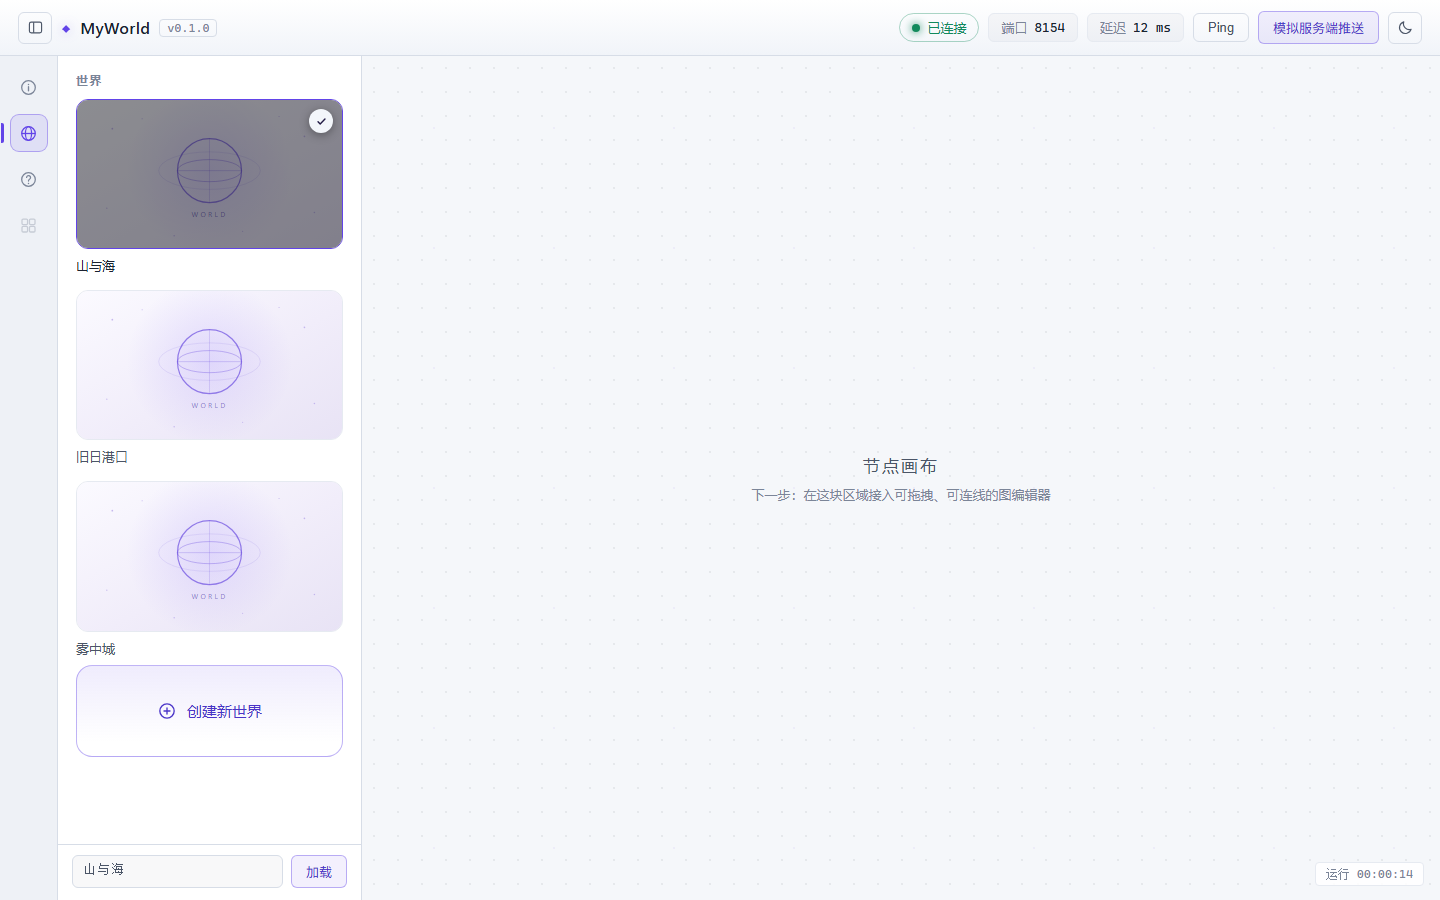
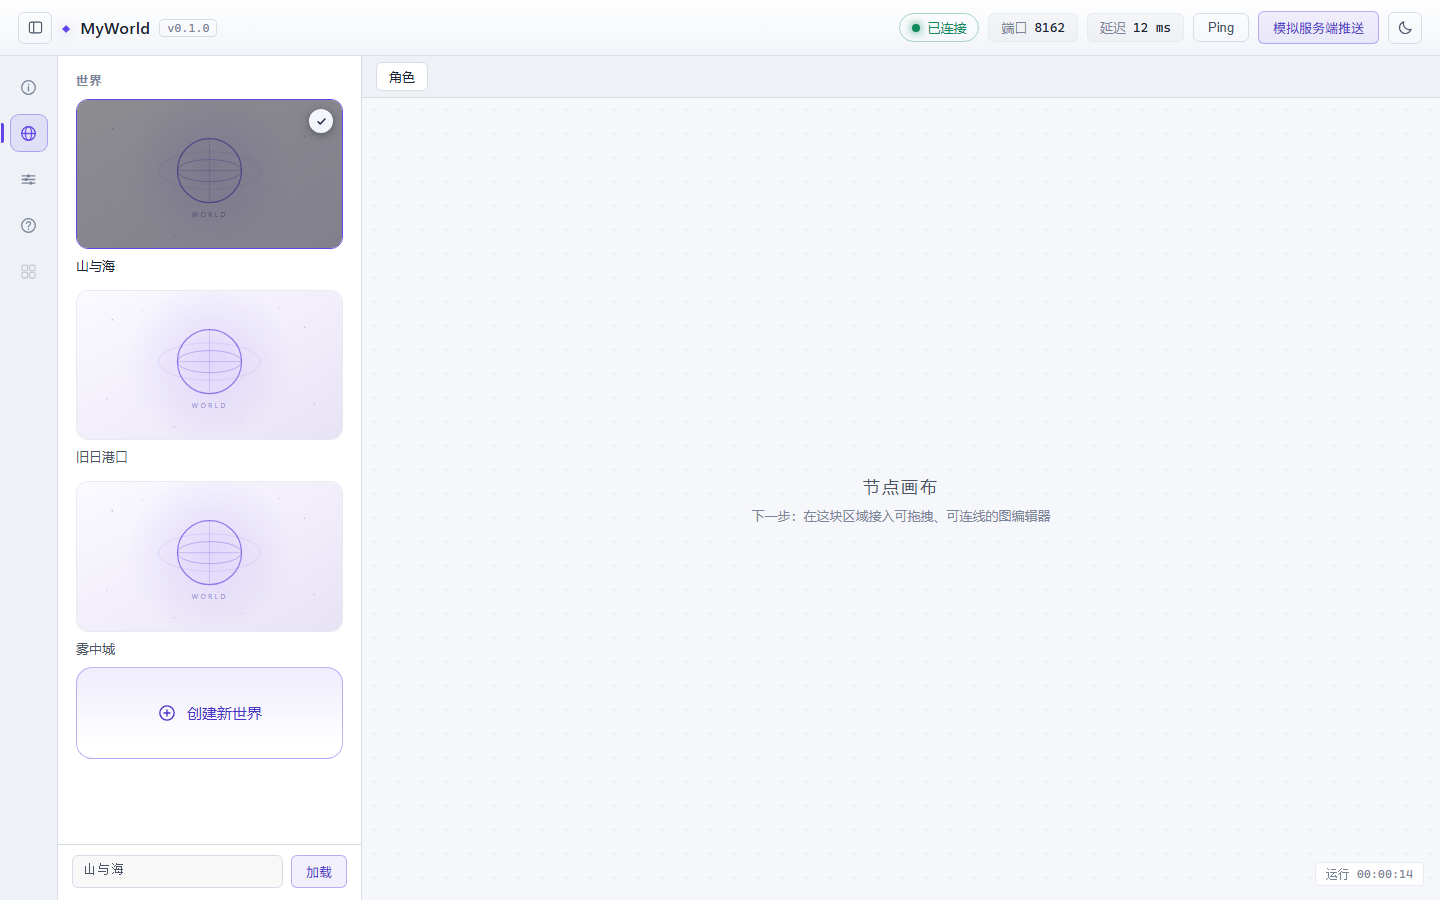
feat: 画布区加二级顶栏（角色标签）
- canvas-wrap 改成纵向 flex：上方 workbar（42px，分栏标签）+ 下方 canvas-body
- 顶栏目前只有「角色」一个 tab（tablist/tab + aria-selected 已就位，便于后续加栏）
- 画布提示、当前世界视图、运行时长徽标都移进 canvas-body，不再被顶栏覆盖
- 截图与 README 同步更新

diff --git a/web/index.html b/web/index.html
@@ -185,21 +185,28 @@
     </div>
 
     <section class="canvas-wrap">
-      <div class="canvas-grid"></div>
-      <div class="canvas-hint" id="canvasHint">
-        <strong>节点画布</strong>
-        <span>下一步：在这块区域接入可拖拽、可连线的图编辑器</span>
+      <!-- 二级顶栏：画布区自己的分栏标签 -->
+      <div class="workbar" role="tablist" aria-label="画布分栏">
+        <button class="worktab is-active" type="button" role="tab" aria-selected="true" data-tab="characters">角色</button>
       </div>
 
-      <div class="canvas-world" id="canvasWorld" hidden>
-        <span class="canvas-world-kicker">当前世界</span>
-        <h3 id="canvasWorldName">—</h3>
-        <code id="canvasWorldPath">—</code>
-        <p class="hint">世界已加载。画布还没做，节点编辑器接进来之后这里就是它的工作区。</p>
-        <button class="btn ghost small" id="btnCloseWorld" type="button">关闭世界</button>
-      </div>
+      <div class="canvas-body" id="canvasBody">
+        <div class="canvas-grid"></div>
+        <div class="canvas-hint" id="canvasHint">
+          <strong>节点画布</strong>
+          <span>下一步：在这块区域接入可拖拽、可连线的图编辑器</span>
+        </div>
 
-      <div class="canvas-badge" id="uptime">运行 00:00:00</div>
+        <div class="canvas-world" id="canvasWorld" hidden>
+          <span class="canvas-world-kicker">当前世界</span>
+          <h3 id="canvasWorldName">—</h3>
+          <code id="canvasWorldPath">—</code>
+          <p class="hint">世界已加载。画布还没做，节点编辑器接进来之后这里就是它的工作区。</p>
+          <button class="btn ghost small" id="btnCloseWorld" type="button">关闭世界</button>
+        </div>
+
+        <div class="canvas-badge" id="uptime">运行 00:00:00</div>
+      </div>
     </section>
   </main>
 

diff --git a/web/css/style.css b/web/css/style.css
@@ -508,11 +508,55 @@ body {
 /* ---------- 画布占位 ---------- */
 .canvas-wrap {
   position: relative;
+  display: flex;
+  flex-direction: column;
   flex: 1 1 auto;
   min-width: 0;
   overflow: hidden;
   background: var(--bg);
   transition: background-color 0.18s ease;
+}
+
+/* 二级顶栏：画布区分栏标签 */
+.workbar {
+  display: flex;
+  align-items: center;
+  gap: 6px;
+  flex: 0 0 auto;
+  height: 42px;
+  padding: 0 14px;
+  border-bottom: 1px solid var(--border);
+  background: var(--bg-soft);
+}
+
+.worktab {
+  padding: 5px 12px;
+  border: 1px solid transparent;
+  border-radius: var(--radius-sm);
+  background: transparent;
+  color: var(--text-faint);
+  font-family: inherit;
+  font-size: var(--fs-small);
+  cursor: pointer;
+  transition: color 0.15s, background 0.15s, border-color 0.15s;
+}
+
+.worktab:hover {
+  color: var(--text);
+  background: var(--ghost-hover-bg);
+}
+
+.worktab.is-active {
+  border-color: var(--border);
+  background: var(--panel);
+  color: var(--text);
+}
+
+.canvas-body {
+  position: relative;
+  flex: 1 1 auto;
+  min-height: 0;
+  overflow: hidden;
 }
 
 .canvas-grid {

diff --git a/web/js/app.js b/web/js/app.js
@@ -715,6 +715,24 @@
     });
   }
 
+  // ---------------- 画布分栏（二级顶栏） ----------------
+
+  function initWorkTabs() {
+    const tabs = Array.from(document.querySelectorAll(".worktab"));
+    if (!tabs.length) return;
+
+    tabs.forEach((tab) => {
+      on(tab, "click", () => {
+        tabs.forEach((other) => {
+          const active = other === tab;
+          other.classList.toggle("is-active", active);
+          other.setAttribute("aria-selected", String(active));
+        });
+        debug("切换画布分栏", tab.dataset.tab);
+      });
+    });
+  }
+
   // ---------------- 连接状态 ----------------
 
   function setConnection(status, label) {
@@ -960,6 +978,7 @@
   initTheme();
   initRail();
   initSidebar();
+  initWorkTabs();
   on(el.btnCreateWorld, "click", () => openCreateDialog("world"));
   on(el.btnCreatePreset, "click", () => openCreateDialog("preset"));
   on(el.btnLoadWorld, "click", loadSelectedWorld);

diff --git a/README.md b/README.md
@@ -118,6 +118,8 @@ data/
 
 ![右键菜单](docs/screenshot-menu.png)
 
+画布区上方还有一条**二级顶栏**（属于画布自己的分栏标签），目前只有「角色」一个标签；具体分栏内容还没做，后续同类分栏会加在这条栏里。
+
 还没有真实图片时，缩略图回落到默认图，**深浅两套**各一张（`web/img/world-default.svg` / `world-default-light.svg`），切换主题时会自动换。想换图就往世界目录里放一张 `thumbnail.png`（也认 `.jpg / .jpeg / .webp / .gif`），刷新即可，不需要重启服务。
 
 图片比例由 `--world-ratio` 变量控制，想用 4:3 就把它改成 `4 / 3`。
@@ -201,7 +203,7 @@ myworld/
   worlds.py            世界管理：名字校验、创建、列表（data/ 目录）
   presets.py           预设管理：同样的名字规则，存 presets/ 目录
 web/
-  index.html           界面结构：顶栏 / 左侧功能区 / 内容面板 / 画布
+  index.html           界面结构：顶栏 / 左侧功能区 / 内容面板 / 二级顶栏 / 画布
   css/style.css        明暗两套主题 + 排版刻度（全部是 CSS 变量）
   js/app.js            状态渲染、WS 连接/心跳/重连、世界图库与创建
   img/world-default.svg 世界缩略图默认图（深色）
